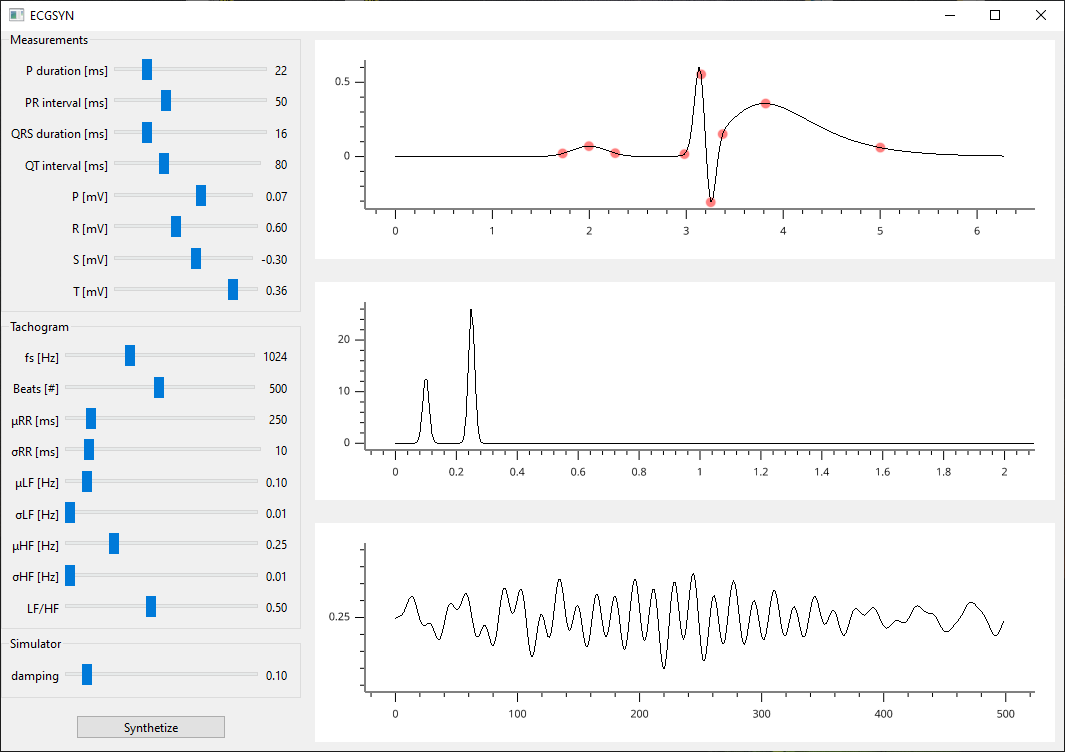
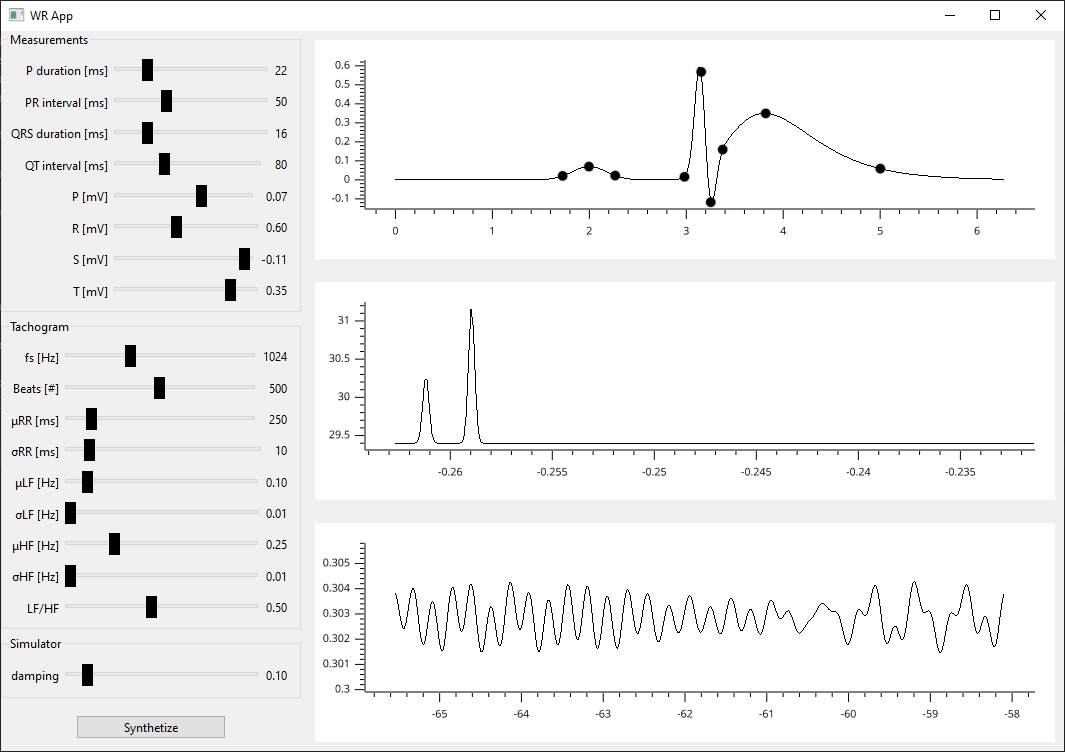
enhance colors

diff --git a/src/wr_app/App.py b/src/wr_app/App.py
@@ -1,5 +1,6 @@
 from PySide6.QtWidgets import *
 from PySide6.QtCore import *
+from PySide6.QtGui import *
 from typing import Tuple, Any
 import sys
 from vispy import scene
@@ -9,8 +10,6 @@ import superqt
 import wr_transform
 import ecg_models 
 import ecg_simulator
-
-RED = np.array([1., 0, 0, .5], dtype=np.float32)
 
 class BaseViewer(QWidget):
 
@@ -102,8 +101,8 @@ class BaseViewer(QWidget):
             self._markers,
             size = 10,
             edge_width = 0,
-            edge_color = RED,
-            face_color = RED,
+            edge_color = 'black',
+            face_color = 'black',
         )
         self.markers.update()
 
@@ -190,7 +189,8 @@ class SliderForm(QGroupBox):
             
             if isinstance(step, float):
                 slider = superqt.QLabeledDoubleSlider(Qt.Orientation.Horizontal) 
-
+            
+            slider.setStyleSheet("QSlider::handle:horizontal {background-color: black;}")
             slider.setRange(*limit)
             slider.setValue(value)
             slider.setSingleStep(step)
@@ -239,7 +239,7 @@ K = wr_transform.TransformParameters(
     D=2.0,
     J=wr_transform.TransformParameters.kJ()
 )
-class ECGSYN(QMainWindow):
+class WRAPP(QMainWindow):
     def __init__(self, app):
         super().__init__()
         self.app = app
@@ -396,7 +396,7 @@ class ECGSYN(QMainWindow):
 
     def setup_main_ui(self):
 
-        self.setWindowTitle('ECGSYN')
+        self.setWindowTitle('WR App')
 
         self.beatViewer = BaseViewer(
             n_markers=self.fidmodel.rowCount(),
@@ -412,7 +412,7 @@ class ECGSYN(QMainWindow):
             self.meamodel,
             limits=[(20, 30), (40, 70),(10, 40),(60, 120),(-.25, .25), (.3, 1.),(-.6, -.1),(.1, .4)],
             steps=[1, 1, 1, 1, .01, .01, .01, .01],
-            default_values=[22, 50, 16, 80, .07, .6, -.3, .12],
+            default_values=[22, 50, 16, 80, .07, .6, -.3, .35],
             title='Measurements',
         )
 
@@ -420,7 +420,7 @@ class ECGSYN(QMainWindow):
             self.tachmodel,
             limits=[(512, 2048), (5, 1000), (150, 1000), (0, 100), (.01, 1.), (.01, 1.), (.01, 1.), (.01, 1.), (.1, 1.)],
             steps=[1, 1, 1, 1, .01,.01,.01,.01,.1,],
-            default_values=[1024, 5, 250, 10, .1, .01, .25, .01, .5],
+            default_values=[1024, 500, 250, 10, .1, .01, .25, .01, .5],
             title='Tachogram',
         )
 
@@ -528,5 +528,5 @@ class ECGSYN(QMainWindow):
 
 if __name__ == '__main__':
     app = QApplication(sys.argv)
-    viewer = ECGSYN(app)
+    viewer = WRAPP(app)
     sys.exit(app.exec())
